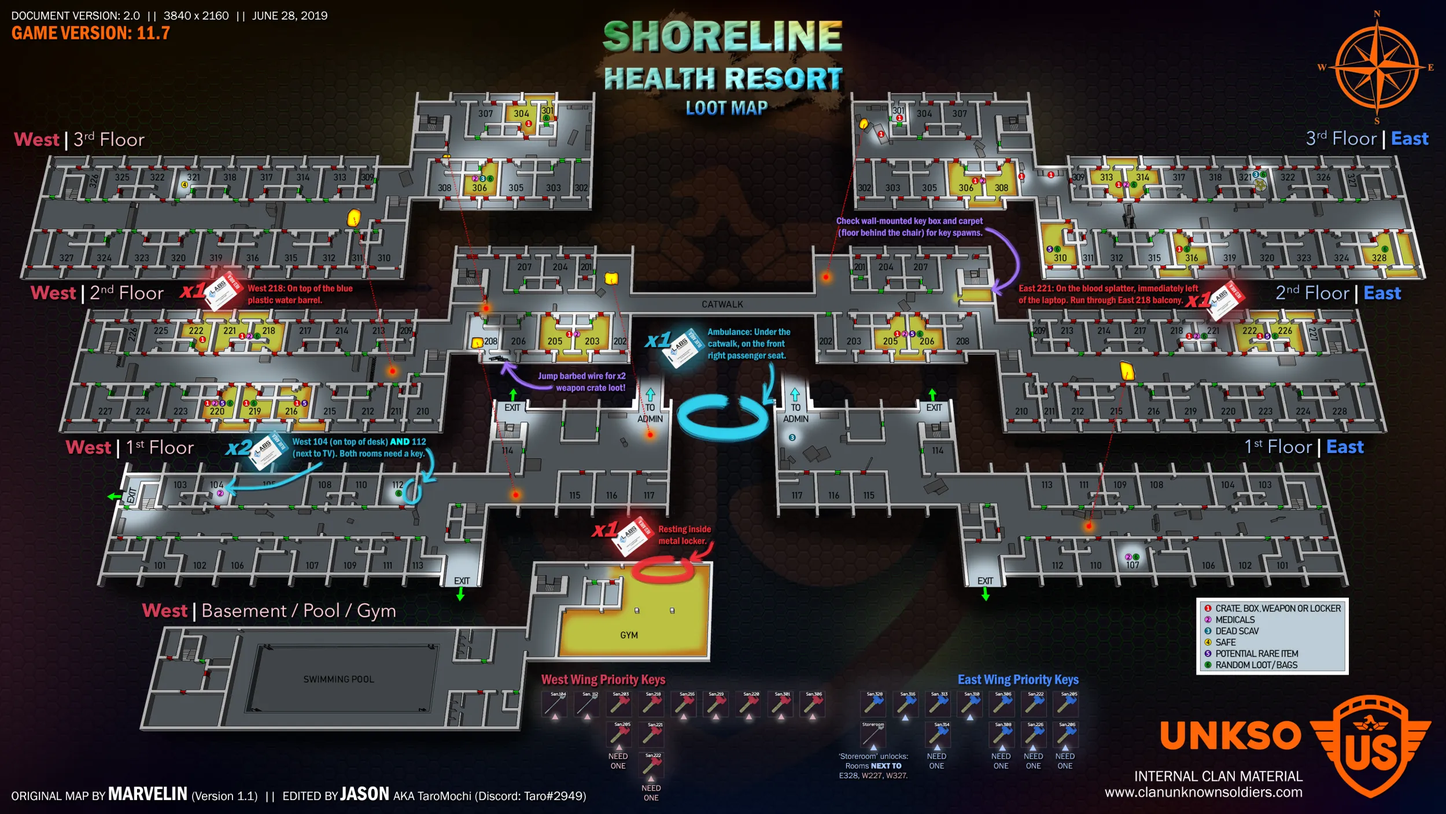
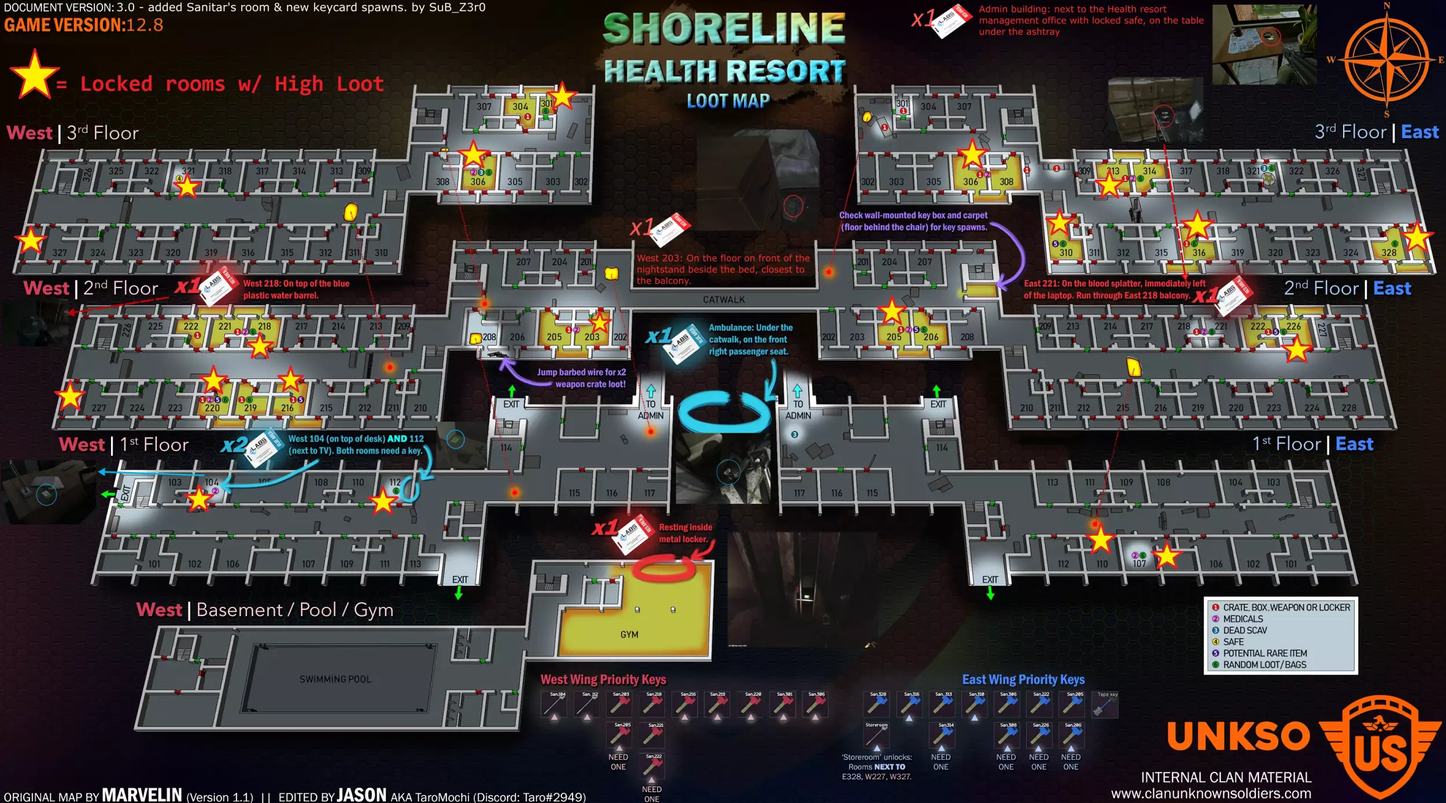
Update shoreline maps

diff --git a/store/mapData/index.js b/store/mapData/index.js
@@ -1,7 +1,7 @@
 import CustomsMain from './CustomsMain';
 import CustomsHiddenStashes from './CustomsHiddenStashes';
 import ShorelineMain from './ShorelineMain';
-import Shoreline2in1 from './Shoreline2in1';
+import ShorelineHiddenStashes from './ShorelineHiddenStashes';
 import ShorelineKeys from './ShorelineKeys';
 import ShorelineResort from './ShorelineResort';
 import InterchangeMain from './InterchangeMain';
@@ -30,7 +30,7 @@ const mapData = {
     "reserve-main": ReserveMain,
     "reserve-keys-and-doors": ReserveKeysAndDoors,
     "shoreline-main": ShorelineMain,
-    "shoreline-2in1": Shoreline2in1,
+    "shoreline-hidden-stashes": ShorelineHiddenStashes,
     "shoreline-keys": ShorelineKeys,
     "shoreline-resort": ShorelineResort,
     "woods-main": WoodsMain,

diff --git a/store/mapData/ShorelineHiddenStashes.js b/store/mapData/ShorelineHiddenStashes.js
@@ -1,4 +1,4 @@
-import img from '../../mapImages/ShorelineMain.webp';
+import img from '../../mapImages/ShorelineHiddenStashes.webp';
 
 const mapData = {
   groupId: "shoreline",
@@ -7,8 +7,8 @@ const mapData = {
     ru: "Берег"
   },
   title: {
-    en: "Main",
-    ru: "Главная"
+    en: "Hidden Stashes",
+    ru: "Тайники"
   },
   imgPath: img,
   extracts: []
